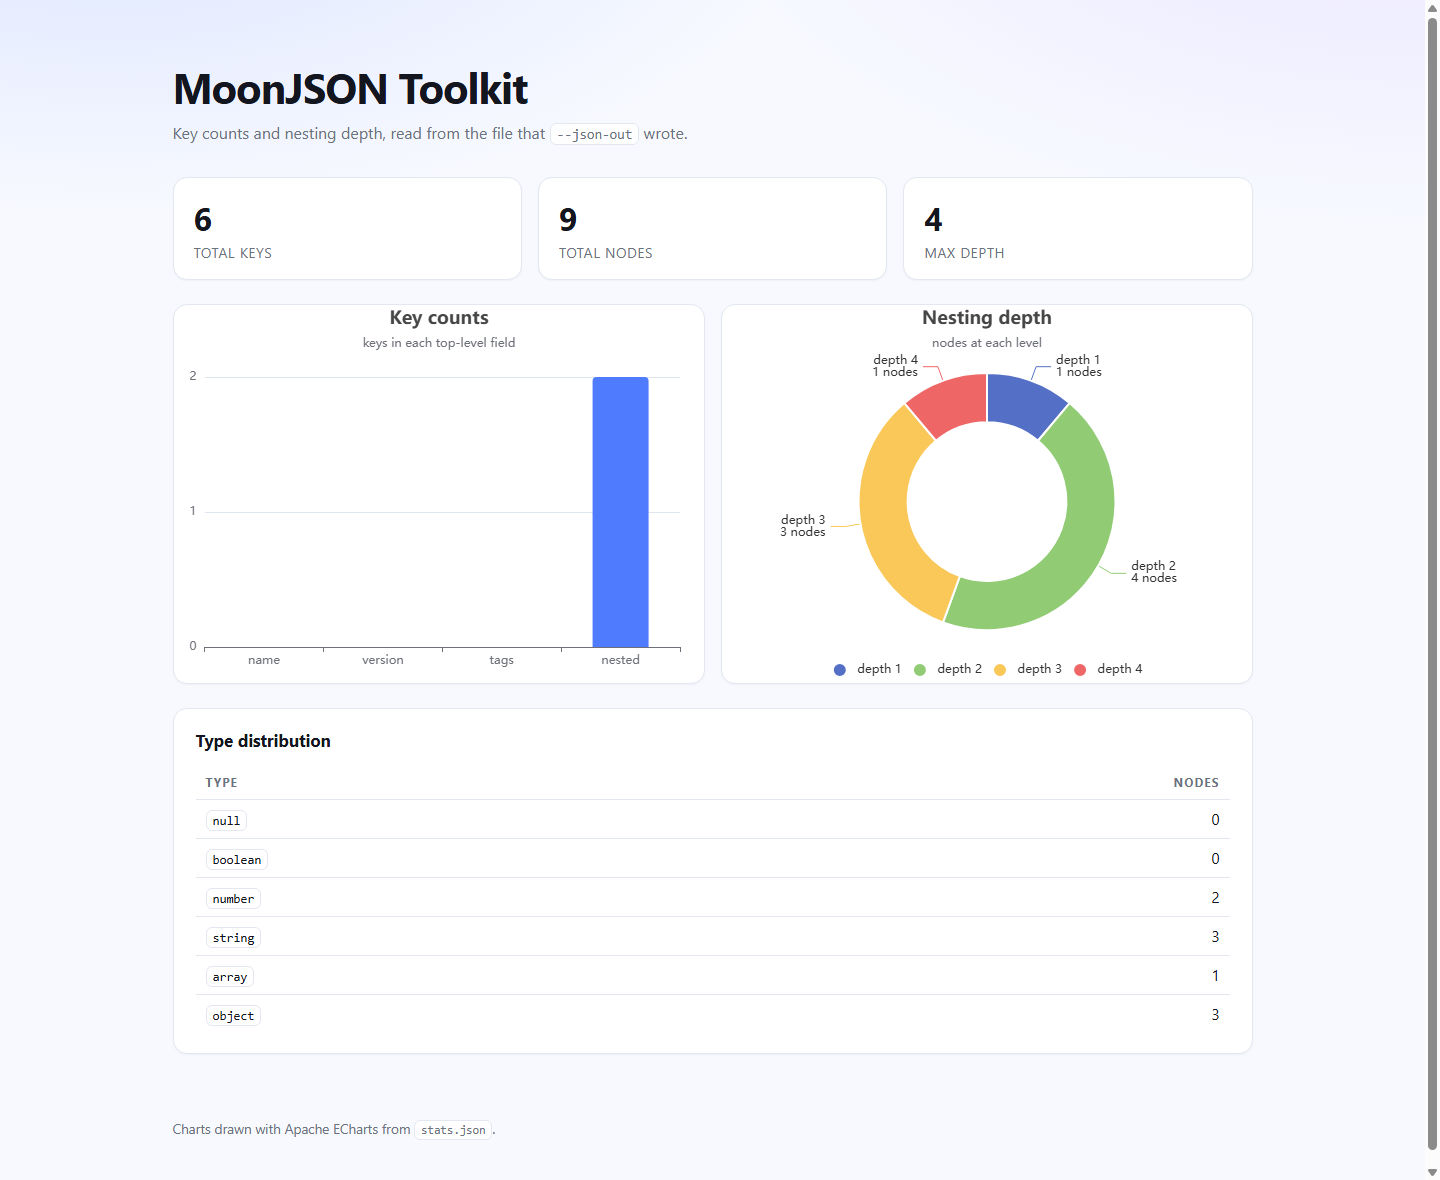
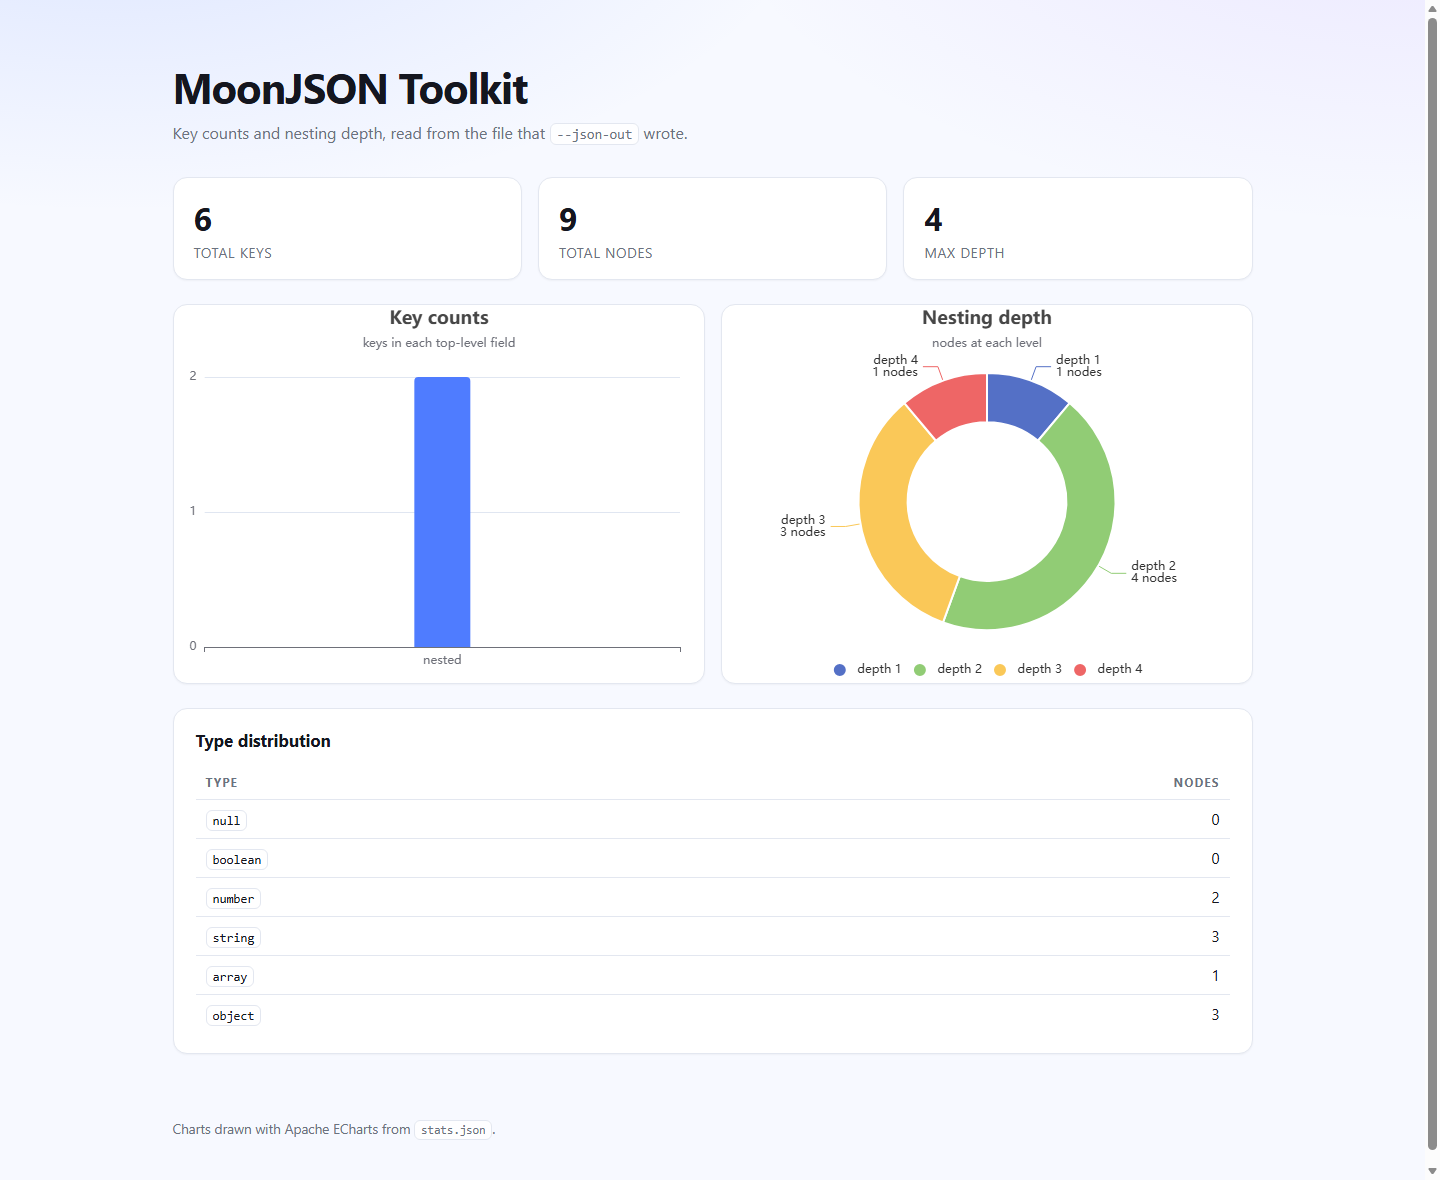
清理空文件、修复 .gitignore、补充 CI 与前端元数据

Changed region(s): [[0.4062, 0.3051, 0.4688, 0.5492], [0.2812, 0.3051, 0.3438, 0.5492]]

diff --git a/frontend/public/charts.js b/frontend/public/charts.js
@@ -91,11 +91,19 @@
   }
 
   function barOption(stats) {
-    var keys = stats.key_counts || [];
+    // A field that holds no nested keys can only ever draw a zero-height bar,
+    // so it is left out: the chart answers "which fields carry structure", and
+    // a row of empty bars answers it worse than no bars at all.
+    var keys = (stats.key_counts || []).filter(function (entry) {
+      return entry.count > 0;
+    });
     return {
       title: {
         text: "Key counts",
-        subtext: "keys in each top-level field",
+        subtext:
+          keys.length === 0
+            ? "no field holds nested keys"
+            : "keys in each top-level field",
         left: "center",
       },
       tooltip: { trigger: "axis", axisPointer: { type: "shadow" } },
